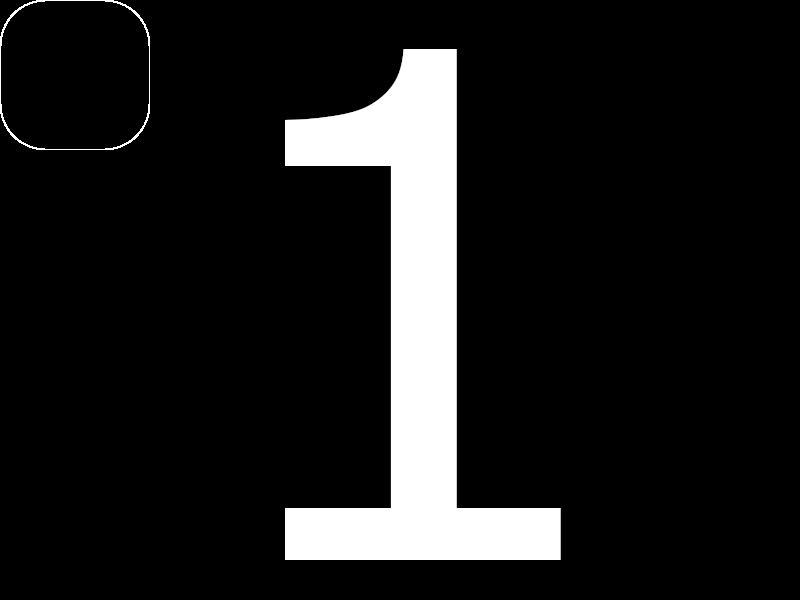
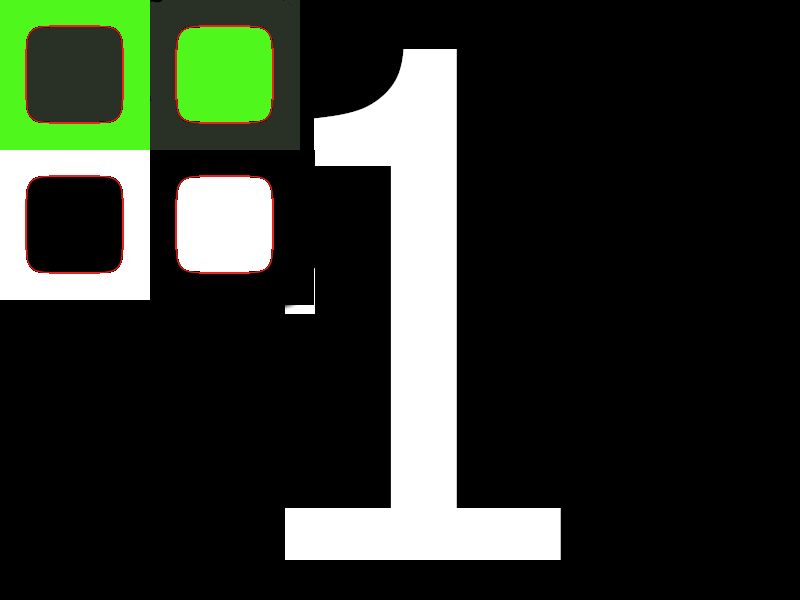
adding sprite collision masks

Changed region(s): [[0.0, 0.0, 0.4062, 0.51], [0.3438, 0.51, 0.4062, 0.54]]

diff --git a/tiles.html b/tiles.html
@@ -67,25 +67,39 @@ function main() {
   ctx.fillText('Hello World!', 10, 10);
 
   var map = '';
-  map += '0 1 1 1 1 2\n';
-  map += '3 x x x x 5\n';
-  map += '3 x x x x 5\n';
-  map += '3 x x x x 5\n';
-  map += '3 x x x x 5\n';
-  map += '3 x x x x 5\n';
-  map += '3 x x x x 5\n';
-  map += '6 7 7 7 7 8\n';
+  map += '00 01 01 01 01 01 01 01 01 01 01 01 01 01 02\n';
+  map += '03 04 04 04 04 04 04 04 04 04 04 04 04 04 05\n';
+  map += '03 04 09 10 10 10 10 10 10 10 10 10 11 04 05\n';
+  map += '03 04 12 13 13 13 13 13 13 13 13 13 14 04 05\n';
+  map += '03 04 12 13 13 13 13 13 13 13 13 13 14 04 05\n';
+  map += '03 04 12 13 13 13 13 13 13 13 13 13 14 04 05\n';
+  map += '03 04 12 13 13 13 13 13 13 13 13 13 14 04 05\n';
+  map += '03 04 12 13 13 13 13 13 13 13 13 13 14 04 05\n';
+  map += '03 04 12 13 13 13 13 13 13 13 13 13 14 04 05\n';
+  map += '03 04 15 16 16 16 16 16 16 16 16 16 17 04 05\n';
+  map += '03 04 04 04 04 04 04 04 04 04 04 04 04 04 05\n';
+  map += '06 07 07 07 07 07 07 07 07 07 07 07 07 07 08\n';
 
   var spriteObjects = [
-    {xIndex:0, yIndex:0},
-    {xIndex:1, yIndex:0},
-    {xIndex:2, yIndex:0},
-    {xIndex:0, yIndex:1},
-    {xIndex:1, yIndex:1},
-    {xIndex:2, yIndex:1},
-    {xIndex:0, yIndex:2},
-    {xIndex:1, yIndex:2},
-    {xIndex:2, yIndex:2}
+    {xIndex:0, yIndex:0, width:50, height:50},
+    {xIndex:1, yIndex:0, width:50, height:50},
+    {xIndex:2, yIndex:0, width:50, height:50},
+    {xIndex:0, yIndex:1, width:50, height:50},
+    {xIndex:1, yIndex:1, width:50, height:50},
+    {xIndex:2, yIndex:1, width:50, height:50},
+    {xIndex:0, yIndex:2, width:50, height:50},
+    {xIndex:1, yIndex:2, width:50, height:50},
+    {xIndex:2, yIndex:2, width:50, height:50},
+
+    {xIndex:3, yIndex:0, width:50, height:50},
+    {xIndex:4, yIndex:0, width:50, height:50},
+    {xIndex:5, yIndex:0, width:50, height:50},
+    {xIndex:3, yIndex:1, width:50, height:50},
+    {xIndex:4, yIndex:1, width:50, height:50},
+    {xIndex:5, yIndex:1, width:50, height:50},
+    {xIndex:3, yIndex:2, width:50, height:50},
+    {xIndex:4, yIndex:2, width:50, height:50},
+    {xIndex:5, yIndex:2, width:50, height:50}
   ];
 
   // generate a background
